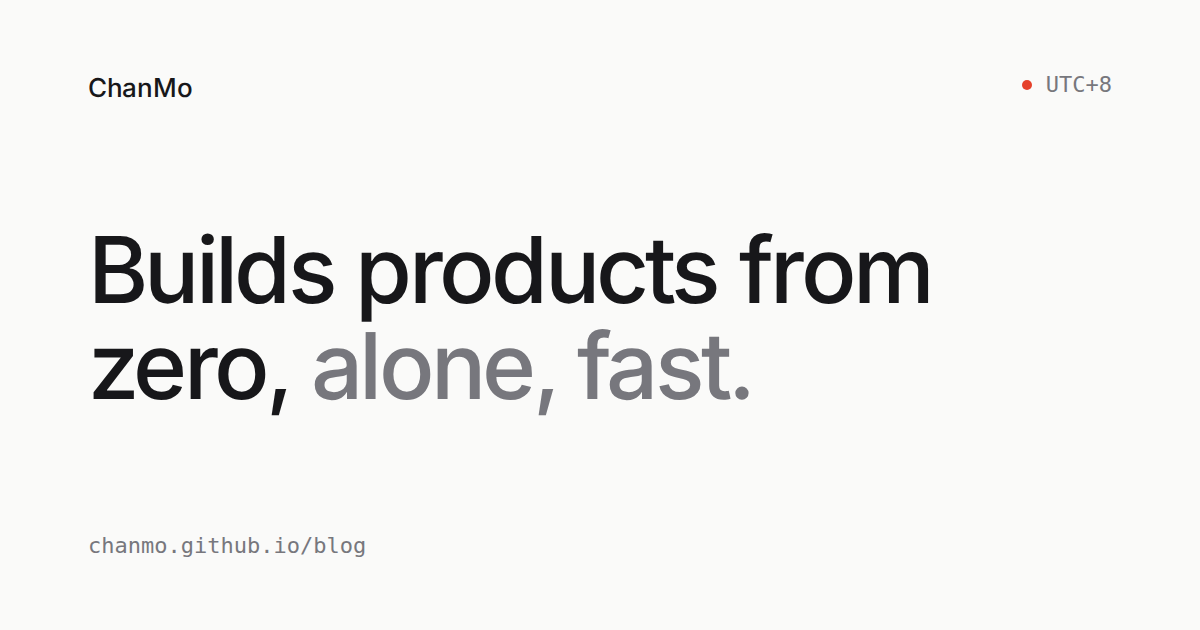
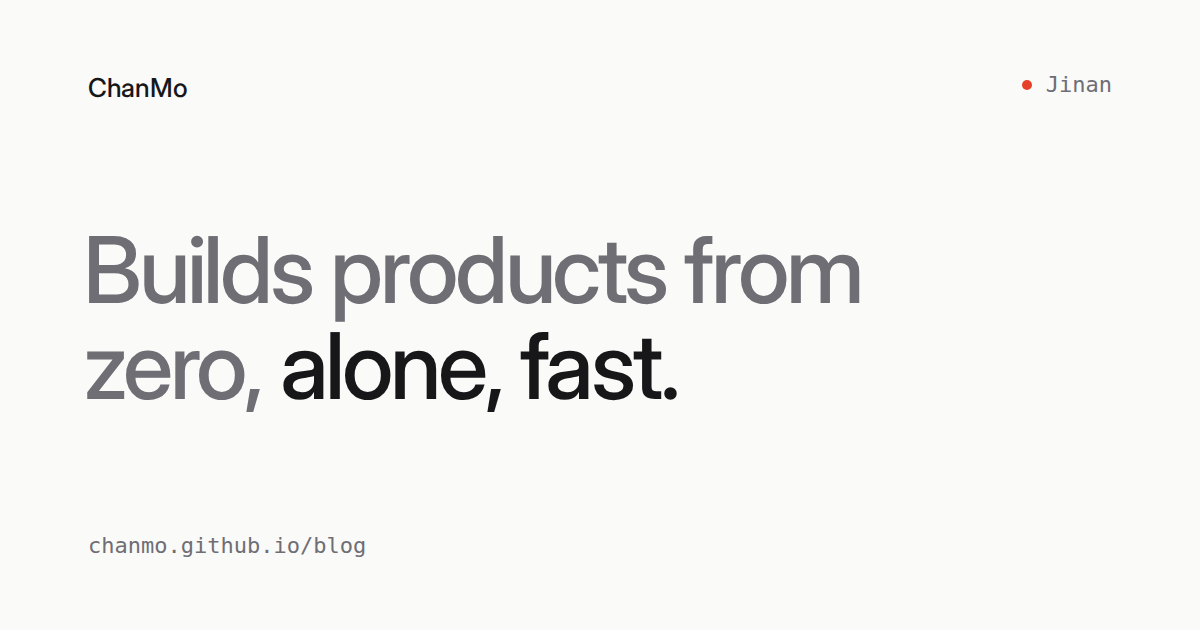
feat: add work, tighten copy and typography
## 背景

首版上线后复查：About 与 Method 重复，标题强调放反，缺少作品佐证，
浅色 muted 文字对比度 4.26:1 未达 WCAG AA。

## 实现

- 删除 Method；标题改为弱化前半句、强调 "alone, fast."；About 改写
- 新增 work：DSOOU、NativeDiagram、LiveLeaf
- 时钟改为 Jinan 本地时间，23–7 点显示 asleep 与空心圆点
- 页脚改为 colophon
- 标题改用 Inter Display 500（opsz 32 实例，拉丁子集），并做光学左对齐
- Arial 按 Inter 度量调整的 fallback，避免字体切换引起布局跳动
- 连字符词不断行；muted 调整为 #6e6e74（4.85:1）
- 新增 apple-touch-icon、JSON-LD Person、rel="me"；重新生成 og.png

## 验证

- Chromium 1280/390 宽度、浅色/深色截图与悬停状态检查；打印为单页 A4
- JSON-LD 可解析

Claude-Session: https://claude.ai/code/session_01TaJADcRGVMHx4MRdVSG1p1

Changed region(s): [[0.0617, 0.3619, 0.7708, 0.6635], [0.0617, 0.1206, 0.185, 0.181], [0.8633, 0.1206, 0.925, 0.1508]]

diff --git a/index.html b/index.html
@@ -12,26 +12,45 @@
 <meta charset="utf-8">
 <meta name="viewport" content="width=device-width, initial-scale=1">
 <title>ChanMo</title>
-<meta name="description" content="Builds products from zero, alone, fast.">
+<meta name="description" content="Builds products from zero, alone, fast. Full-stack developer in Jinan.">
+<meta name="author" content="ChanMo">
 <meta name="color-scheme" content="light dark">
 <meta name="theme-color" content="#fafaf9" media="(prefers-color-scheme: light)">
 <meta name="theme-color" content="#111113" media="(prefers-color-scheme: dark)">
 <link rel="canonical" href="https://chanmo.github.io/blog/">
 <link rel="icon" href="favicon.svg" type="image/svg+xml">
+<link rel="apple-touch-icon" href="apple-touch-icon.png">
+<link rel="preload" href="fonts/inter-display-500.woff2" as="font" type="font/woff2" crossorigin>
 <link rel="preload" href="fonts/inter-400.woff2" as="font" type="font/woff2" crossorigin>
-<meta property="og:type" content="website">
+<meta property="og:type" content="profile">
 <meta property="og:url" content="https://chanmo.github.io/blog/">
 <meta property="og:title" content="ChanMo">
 <meta property="og:description" content="Builds products from zero, alone, fast.">
 <meta property="og:image" content="https://chanmo.github.io/blog/og.png">
 <meta name="twitter:card" content="summary_large_image">
+<script type="application/ld+json">
+{
+  "@context": "https://schema.org",
+  "@type": "Person",
+  "name": "ChanMo",
+  "url": "https://chanmo.github.io/blog/",
+  "email": "mailto:chan.mo@outlook.com",
+  "jobTitle": "Full-stack developer",
+  "address": { "@type": "PostalAddress", "addressLocality": "Jinan", "addressCountry": "CN" },
+  "sameAs": ["https://github.com/ChanMo"]
+}
+</script>
 <style>
   @font-face { font-family: "Inter"; font-weight: 400; font-display: swap; src: url(fonts/inter-400.woff2) format("woff2"); }
   @font-face { font-family: "Inter"; font-weight: 500; font-display: swap; src: url(fonts/inter-500.woff2) format("woff2"); }
+  @font-face { font-family: "Inter Display"; font-weight: 500; font-display: swap; src: url(fonts/inter-display-500.woff2) format("woff2"); }
+  /* Arial scaled to Inter's metrics, so the swap to Inter does not shift the layout. */
+  @font-face { font-family: "Inter Fallback"; src: local("Arial"); size-adjust: 107.12%; ascent-override: 90.44%; descent-override: 22.52%; line-gap-override: 0%; }
 
   :root {
-    --bg: #fafaf9; --ink: #17171a; --muted: #77777d; --line: #c9c9cc; --rule: #e6e6e3; --accent: #e5402a;
-    --sans: "Inter", "Helvetica Neue", -apple-system, BlinkMacSystemFont, "Segoe UI", system-ui, Arial, sans-serif;
+    --bg: #fafaf9; --ink: #17171a; --muted: #6e6e74; --line: #c9c9cc; --rule: #e6e6e3; --accent: #e5402a;
+    --sans: "Inter", "Inter Fallback", "Helvetica Neue", -apple-system, BlinkMacSystemFont, "Segoe UI", system-ui, sans-serif;
+    --display: "Inter Display", "Inter Fallback", "Helvetica Neue", -apple-system, BlinkMacSystemFont, "Segoe UI", system-ui, sans-serif;
     --mono: ui-monospace, "SF Mono", "JetBrains Mono", "Cascadia Mono", Menlo, Consolas, "Liberation Mono", monospace;
     color-scheme: light;
   }
@@ -53,18 +72,20 @@
     min-height: 100svh; display: flex; flex-direction: column;
   }
   .meta { font: 12.5px/1.6 var(--mono); letter-spacing: 0; color: var(--muted); }
+  .nb { white-space: nowrap; }
 
-  header { display: flex; justify-content: space-between; align-items: baseline; }
+  header { display: flex; justify-content: space-between; align-items: baseline; gap: 1rem; }
   header b { font-weight: 500; font-size: 15px; letter-spacing: -0.01em; }
   #now { display: inline-flex; align-items: center; gap: .55rem; font-variant-numeric: tabular-nums; }
   #now::before { content: ""; width: 6px; height: 6px; border-radius: 50%; background: var(--accent); }
+  #now.asleep::before { background: none; box-shadow: inset 0 0 0 1px var(--muted); }
 
   h1 {
-    margin: clamp(5rem, 17vh, 10rem) 0 clamp(3.5rem, 10vh, 6rem);
-    font-size: clamp(2.3rem, 6.4vw, 4.4rem); line-height: 1.04; font-weight: 500;
-    letter-spacing: -0.04em; text-wrap: balance; max-width: 12em;
+    margin: clamp(5rem, 17vh, 10rem) 0 clamp(3.5rem, 10vh, 6rem) -0.05em;
+    font: 500 clamp(2.3rem, 6.4vw, 4.4rem)/1.04 var(--display);
+    letter-spacing: -0.035em; text-wrap: balance; max-width: 12em; color: var(--muted);
   }
-  h1 span { color: var(--muted); }
+  h1 em { font-style: normal; color: var(--ink); }
 
   section {
     display: grid; grid-template-columns: repeat(12, 1fr); gap: 0 1.5rem;
@@ -72,16 +93,10 @@
   }
   h2 { grid-column: 1 / 4; margin: 0; padding-top: .15rem; font-weight: 400; }
   section > :not(h2) { grid-column: 4 / 11; }
+  section > ul { grid-column: 4 / 13; }
   p { margin: 0 0 1em; max-width: 34em; text-wrap: pretty; }
   p:last-child { margin: 0; }
 
-  ol { list-style: none; margin: 0; padding: 0; counter-reset: n; }
-  li { counter-increment: n; display: grid; grid-template-columns: 2.25rem 1fr; padding: .1rem 0; }
-  li::before { content: counter(n, decimal-leading-zero); font: 12.5px/1.6 var(--mono); color: var(--muted); padding-top: .15rem; }
-  li b { font-weight: 500; }
-  li span { color: var(--muted); }
-
-  .links { display: flex; flex-wrap: wrap; gap: .5rem 2rem; }
   a {
     color: inherit; text-decoration: none;
     background: linear-gradient(var(--line), var(--line)) 0 100% / 100% 1px no-repeat;
@@ -92,22 +107,38 @@
   a svg { width: .7em; height: .7em; margin-left: .3em; vertical-align: .05em; transition: transform .2s ease; }
   a:hover svg { transform: translate(2px, -2px); }
 
+  ul { list-style: none; margin: 0; padding: 0; }
+  .work a { display: grid; grid-template-columns: 9rem 1fr auto; gap: 0 1.5rem; align-items: baseline;
+            padding: .15rem 0; background: none; }
+  .work b { font-weight: 500; justify-self: start;
+            background: linear-gradient(var(--line), var(--line)) 0 100% / 100% 1px no-repeat;
+            transition: background-size .3s ease, color .15s; }
+  .work span { color: var(--muted); transition: color .15s; }
+  .work a:hover { color: inherit; }
+  .work a:hover b { color: var(--accent); background-size: 0 1px; background-position: 100% 100%; }
+  .work a:hover svg { color: var(--accent); }
+  .work a:hover span { color: inherit; }
+
+  .links { display: flex; flex-wrap: wrap; gap: .5rem 2rem; }
+
   footer { margin-top: auto; padding-top: 3rem; }
 
   @media (max-width: 40rem) {
     section { grid-template-columns: 1fr; padding-bottom: 2rem; }
-    h2, section > :not(h2) { grid-column: 1; }
+    h2, section > :not(h2), section > ul { grid-column: 1; }
     h2 { margin-bottom: .75rem; }
+    .work a { grid-template-columns: 1fr auto; padding: .35rem 0; }
+    .work span { grid-column: 1 / -1; grid-row: 2; }
   }
-  @media (prefers-reduced-motion: reduce) { a, a svg { transition: none; } }
+  @media (prefers-reduced-motion: reduce) { a, a svg, .work b, .work span { transition: none; } }
   @media print {
     @page { margin: 20mm; }
     :root { --bg: #fff; --ink: #000; --muted: #555; --rule: #ccc; }
     .page { min-height: 0; padding: 0; }
     h1 { margin: 2.5rem 0 2rem; font-size: 30pt; }
     #now, footer, a svg { display: none; }
-    a { background: none; }
-    a[href^="http"]::after { content: "  " attr(href); font: 9pt var(--mono); color: var(--muted); }
+    a, .work b { background: none; }
+    .links a[href^="http"]::after { content: "  " attr(href); font: 9pt var(--mono); color: var(--muted); }
   }
 </style>
 </head>
@@ -115,47 +146,50 @@
 <div class="page">
   <header>
     <b>ChanMo</b>
-    <span class="meta" id="now">UTC+8</span>
+    <span class="meta" id="now">Jinan, UTC+8</span>
   </header>
 
   <main>
-    <h1>Builds products from zero, <span>alone, fast.</span></h1>
+    <h1>Builds products from zero, <em>alone, fast.</em></h1>
 
     <section>
       <h2 class="meta">about</h2>
       <div>
-        <p>A full-stack developer who takes an idea from a blank page to a working pre-release product — single-handed, in about two weeks. Then a team joins, and the product keeps shipping in two-week cycles.</p>
-        <p>Creativity under constraint. Simple, stable, well-understood tools. Code that is quietly well made, including the parts nobody asked to see.</p>
+        <p>A <span class="nb">full-stack</span> developer who takes an idea from a blank page to a working <span class="nb">pre-release</span>, <span class="nb">single-handed</span>, in about two weeks. Then a team joins, and the product keeps shipping in <span class="nb">two-week</span> cycles.</p>
+        <p>Creativity under constraint. Boring tools, chosen on purpose. Software simple enough to understand in one sitting, and quietly well made, including the parts nobody asked to see.</p>
       </div>
     </section>
 
     <section>
-      <h2 class="meta">method</h2>
-      <ol>
-        <li><div><b>Alone.</b> <span>One person, from first sketch to production.</span></div></li>
-        <li><div><b>Two weeks.</b> <span>A usable pre-release in fourteen days.</span></div></li>
-        <li><div><b>Quiet.</b> <span>Nothing clever for its own sake.</span></div></li>
-      </ol>
+      <h2 class="meta">work</h2>
+      <ul class="work">
+        <li><a href="https://www.dsoou.com/"><b>DSOOU</b><span>Small, free tools for everyday text and images.</span><svg viewBox="0 0 10 10" fill="none" stroke="currentColor" stroke-width="1.3" aria-hidden="true"><path d="M2 8 8 2M3.5 2H8v4.5"/></svg></a></li>
+        <li><a href="https://nativediagram.com/"><b>NativeDiagram</b><span>Editable Office SmartArt, drawn by AI assistants.</span><svg viewBox="0 0 10 10" fill="none" stroke="currentColor" stroke-width="1.3" aria-hidden="true"><path d="M2 8 8 2M3.5 2H8v4.5"/></svg></a></li>
+        <li><a href="https://liveleaf.app/"><b>LiveLeaf</b><span>A native app for Apple platforms.</span><svg viewBox="0 0 10 10" fill="none" stroke="currentColor" stroke-width="1.3" aria-hidden="true"><path d="M2 8 8 2M3.5 2H8v4.5"/></svg></a></li>
+      </ul>
     </section>
 
     <section>
       <h2 class="meta">elsewhere</h2>
       <div class="links">
-        <a href="https://github.com/ChanMo">GitHub<svg viewBox="0 0 10 10" fill="none" stroke="currentColor" stroke-width="1.3" aria-hidden="true"><path d="M2 8 8 2M3.5 2H8v4.5"/></svg></a>
-        <a href="mailto:chan.mo@outlook.com">chan.mo@outlook.com</a>
+        <a href="https://github.com/ChanMo" rel="me">GitHub<svg viewBox="0 0 10 10" fill="none" stroke="currentColor" stroke-width="1.3" aria-hidden="true"><path d="M2 8 8 2M3.5 2H8v4.5"/></svg></a>
+        <a href="mailto:chan.mo@outlook.com" rel="me">chan.mo@outlook.com</a>
       </div>
     </section>
   </main>
 
-  <footer class="meta">chanmo.github.io/blog</footer>
+  <footer class="meta">Set in Inter. One HTML file, no trackers.</footer>
 </div>
 <script>
-  // The only script: local time in UTC+8, and a note for whoever opens the console.
-  // Without it the header simply reads "UTC+8".
+  // The only script: local time in Jinan, and a note for whoever opens the console.
+  // Without it the header simply reads "Jinan, UTC+8".
   (function tick() {
-    var t = new Date(Date.now() + 8 * 3600e3);
-    var hh = String(t.getUTCHours()).padStart(2, "0"), mm = String(t.getUTCMinutes()).padStart(2, "0");
-    document.getElementById("now").textContent = hh + ":" + mm + " · UTC+8";
+    var t = new Date(Date.now() + 8 * 3600e3), h = t.getUTCHours();
+    var hhmm = String(h).padStart(2, "0") + ":" + String(t.getUTCMinutes()).padStart(2, "0");
+    var asleep = h >= 23 || h < 7;
+    var now = document.getElementById("now");
+    now.textContent = hhmm + " in Jinan" + (asleep ? " · asleep" : "");
+    now.classList.toggle("asleep", asleep);
     setTimeout(tick, 60e3 - Date.now() % 60e3);
   })();
   console.log([
@@ -168,6 +202,7 @@
     "     chanmo [--alone] [--two-weeks] idea",
     "",
     "SEE ALSO",
+    "     dsoou.com, nativediagram.com, liveleaf.app",
     "     github.com/ChanMo, chan.mo@outlook.com"
   ].join("\n"));
 </script>

diff --git a/404.html b/404.html
@@ -9,9 +9,9 @@
 <link rel="icon" href="/blog/favicon.svg" type="image/svg+xml">
 <style>
   /* Served for any missing path, so every URL here is absolute. */
-  @font-face { font-family: "Inter"; font-weight: 500; font-display: swap; src: url(/blog/fonts/inter-500.woff2) format("woff2"); }
+  @font-face { font-family: "Inter"; font-weight: 500; font-display: swap; src: url(/blog/fonts/inter-display-500.woff2) format("woff2"); }
   :root {
-    --bg: #fafaf9; --ink: #17171a; --muted: #77777d; --line: #c9c9cc; --accent: #e5402a;
+    --bg: #fafaf9; --ink: #17171a; --muted: #6e6e74; --line: #c9c9cc; --accent: #e5402a;
     --sans: "Inter", "Helvetica Neue", -apple-system, BlinkMacSystemFont, "Segoe UI", system-ui, Arial, sans-serif;
     --mono: ui-monospace, "SF Mono", "JetBrains Mono", "Cascadia Mono", Menlo, Consolas, "Liberation Mono", monospace;
   }

diff --git a/README.md b/README.md
@@ -4,8 +4,8 @@ A single static page. No build step, no framework, no trackers.
 
 - `index.html` — the whole site, CSS inline
 - `404.html` — shown for any missing path (uses absolute `/blog/` URLs)
-- `favicon.svg`, `og.png` — tab icon and share card
-- `fonts/` — Inter 400/500, subset to Latin (SIL OFL, see `fonts/OFL.txt`)
+- `favicon.svg`, `apple-touch-icon.png`, `og.png` — tab icon, iOS home-screen icon, share card
+- `fonts/` — Inter 400/500 and Inter Display 500, subset to Latin (SIL OFL, see `fonts/OFL.txt`)
 - `.nojekyll` — serve files as-is
 
 To change something: edit the HTML, commit, push. GitHub Pages serves the repository root.
